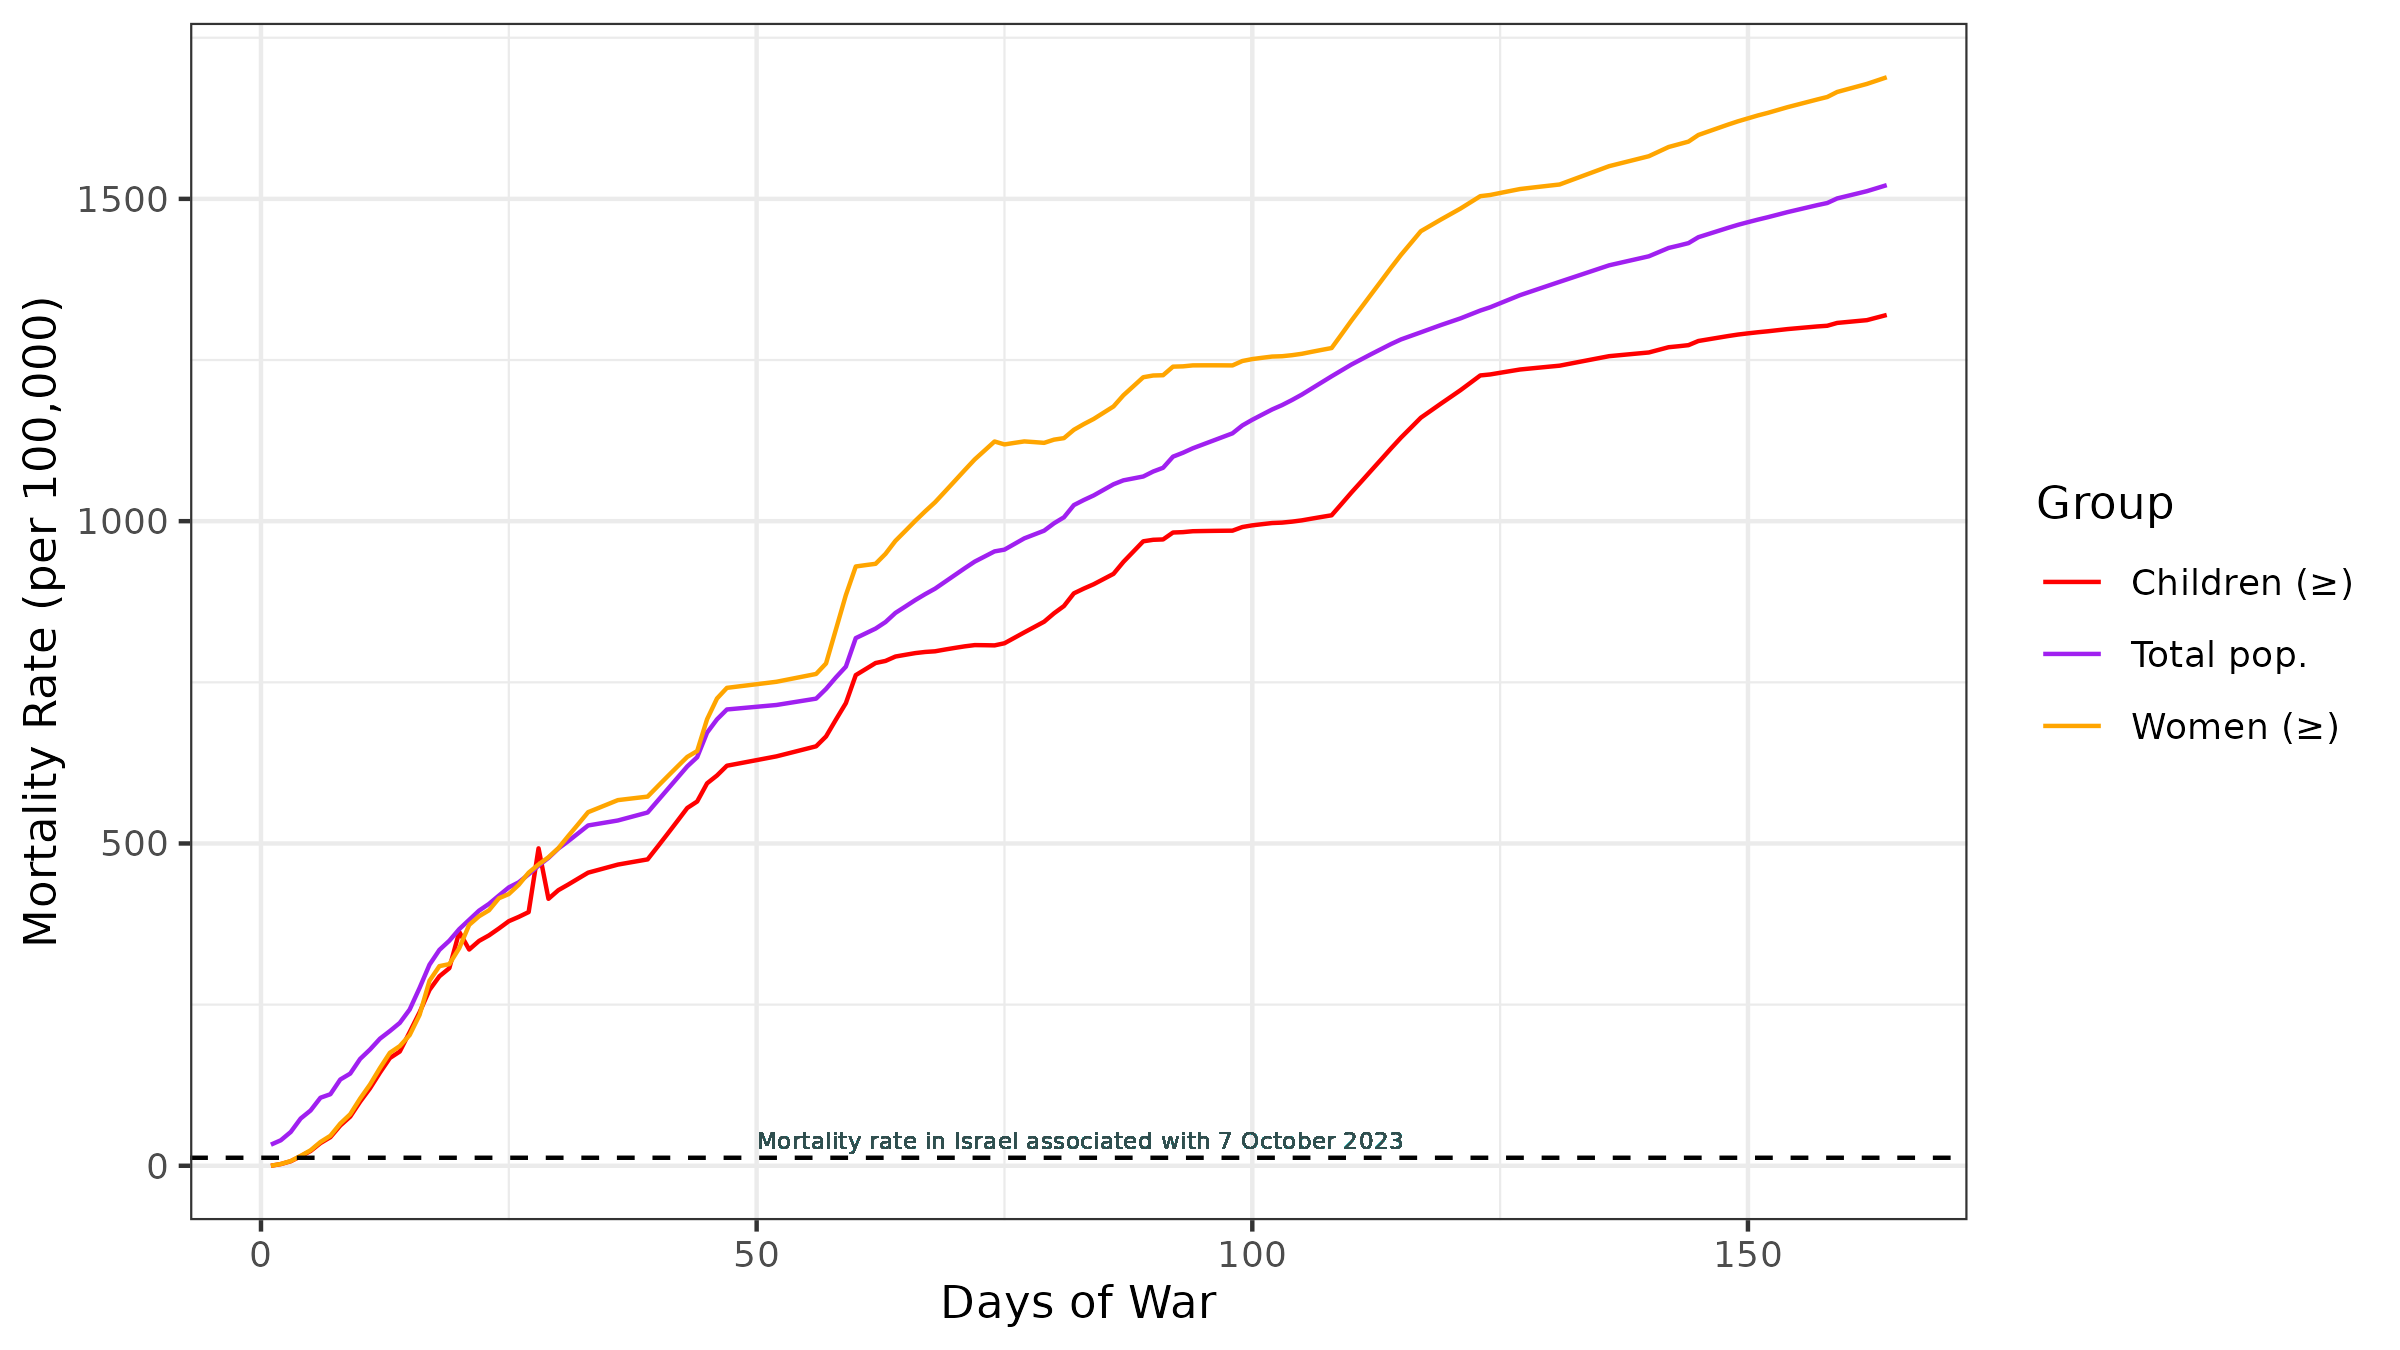
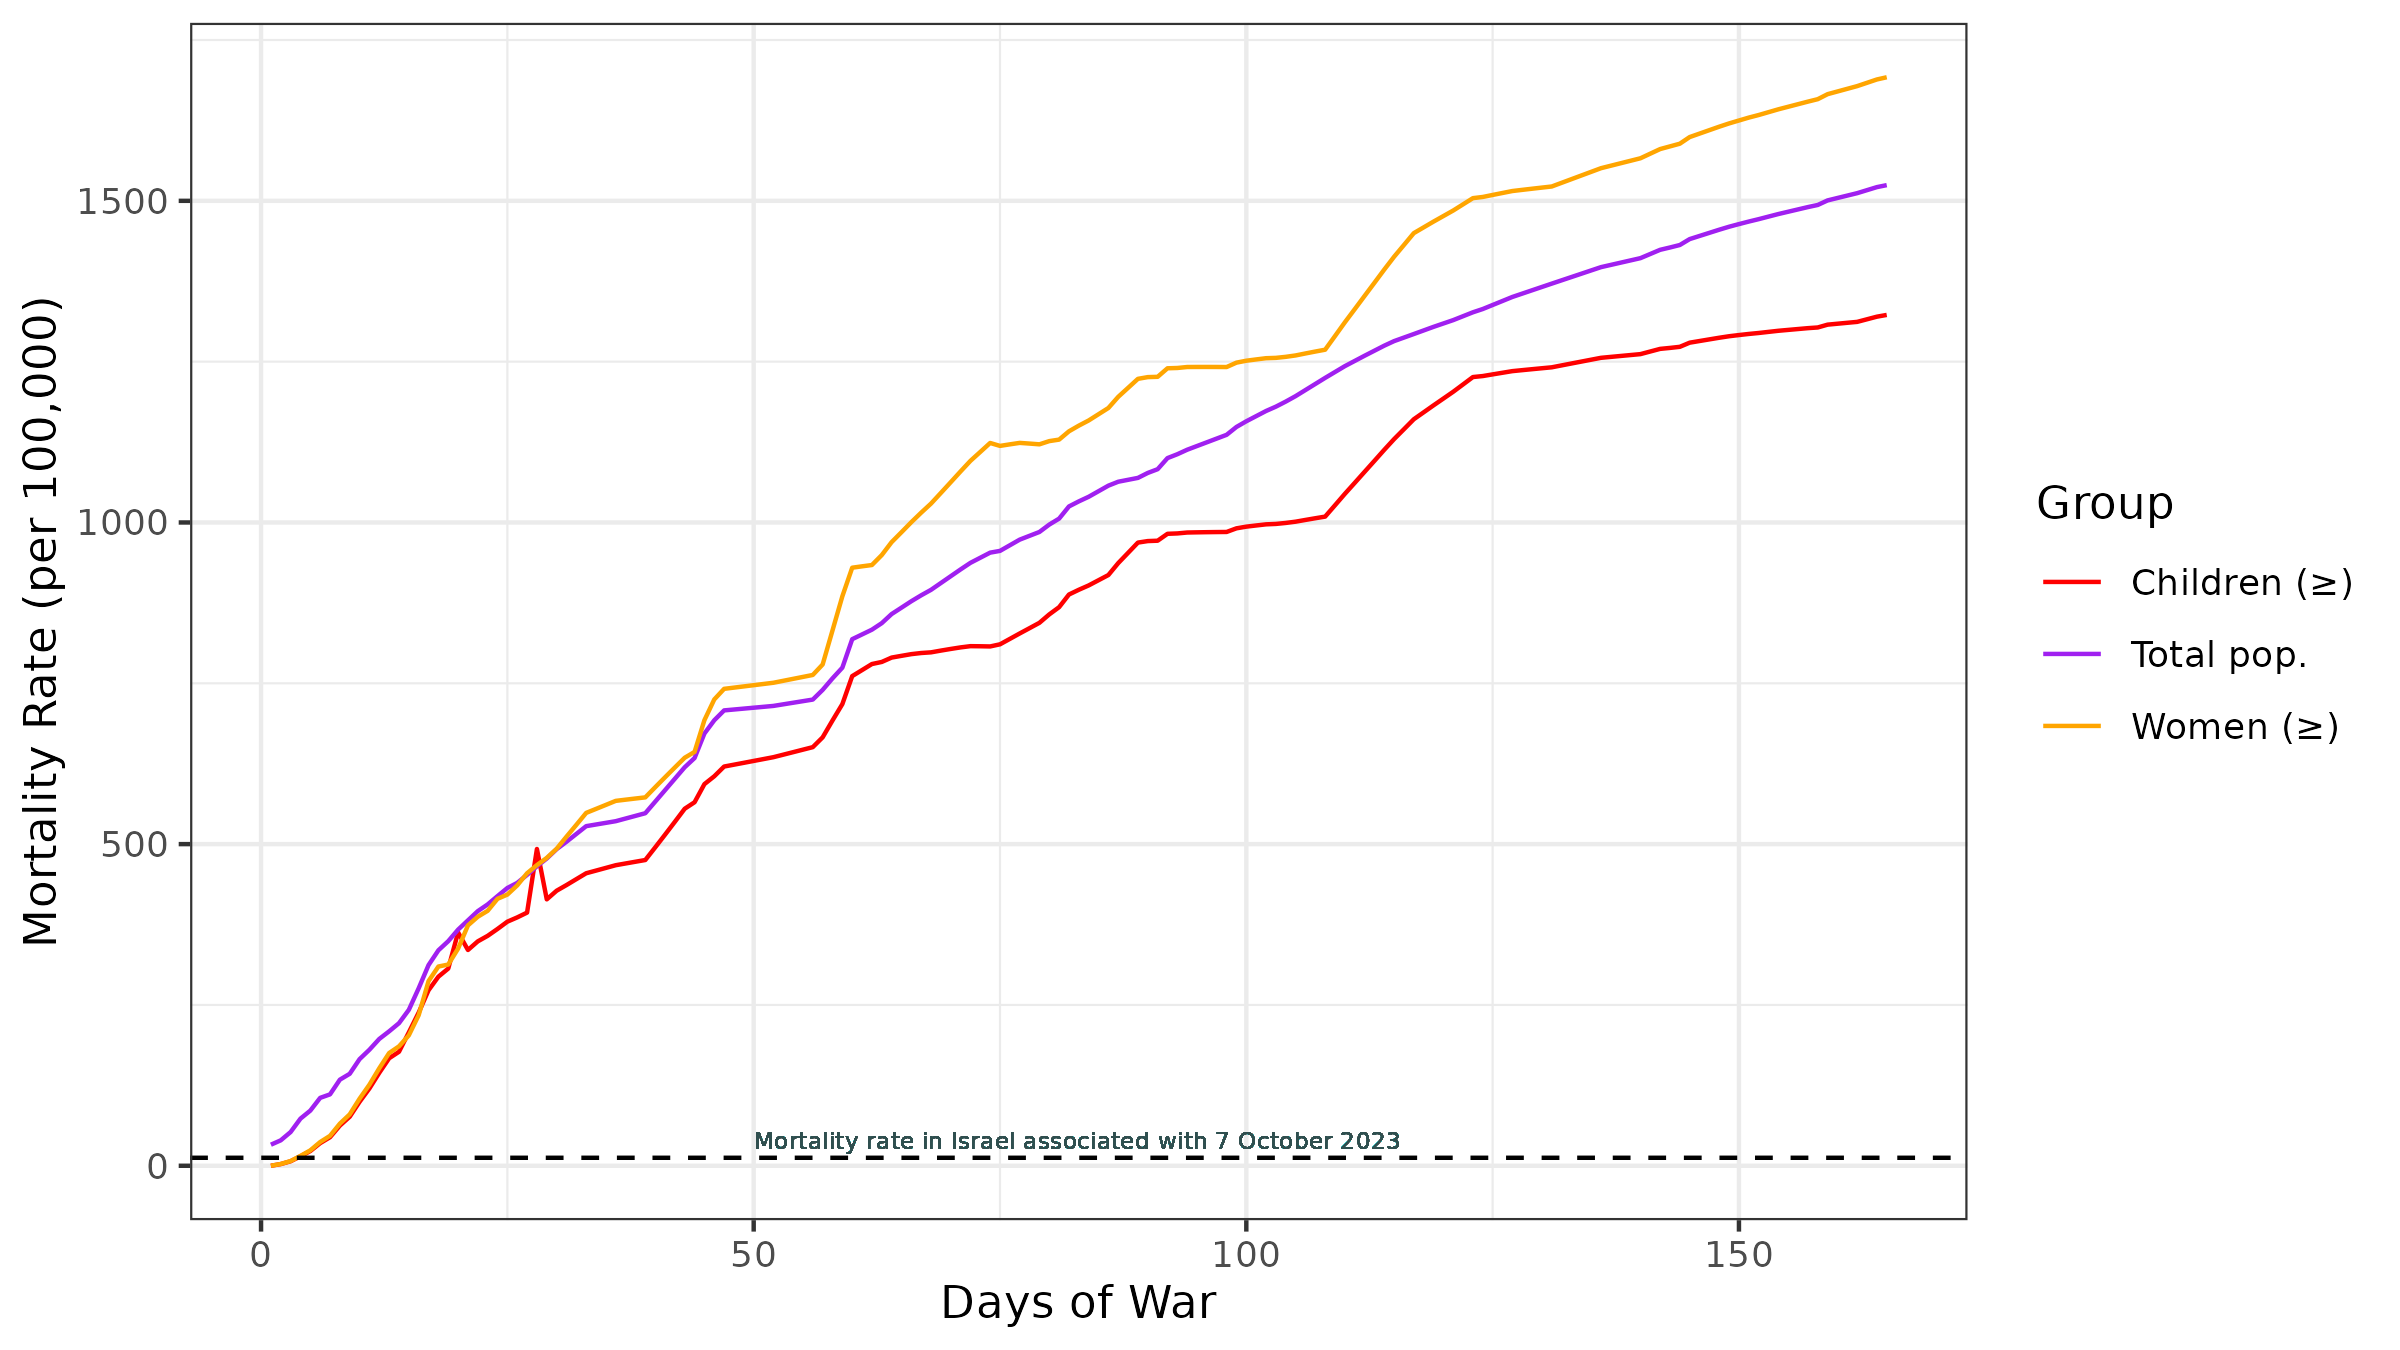
Updated the data on 21 March 2024

diff --git a/README.md b/README.md
@@ -1,5 +1,5 @@
 Tracking mortality in Palestine following Israel's assault against Gaza (2023-2024). 
-*Last updated 19 March 2024*
+*Last updated 21 March 2024*
 
 # Gaza Conflict Tracker
 
